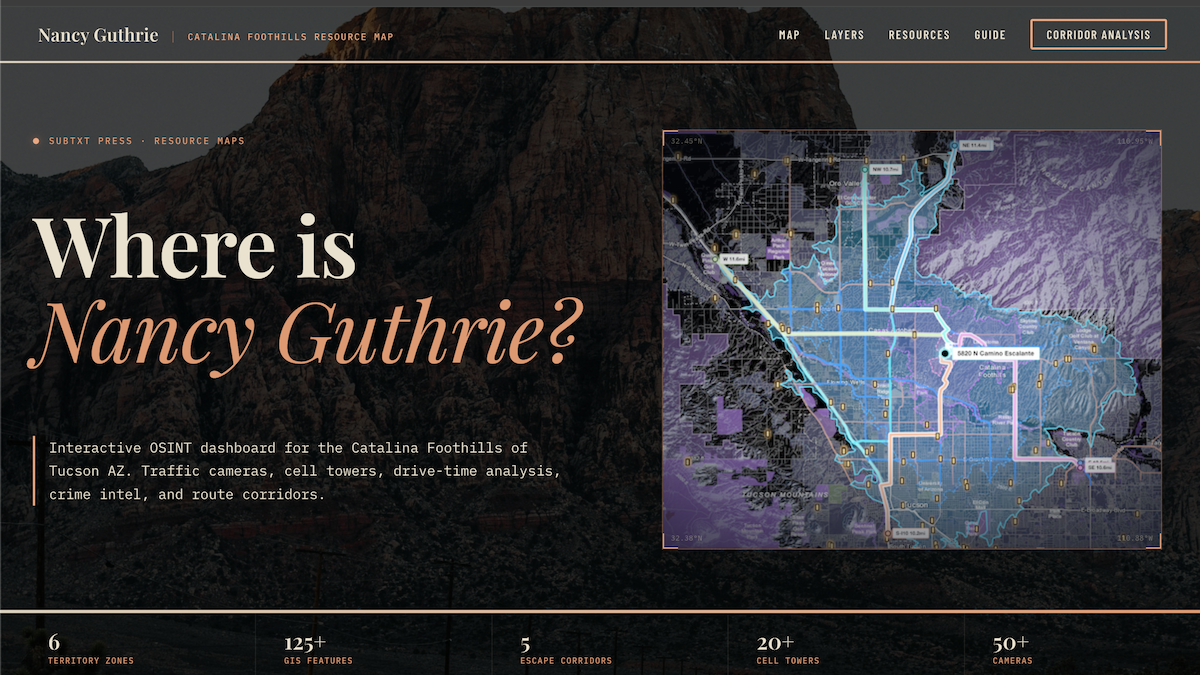
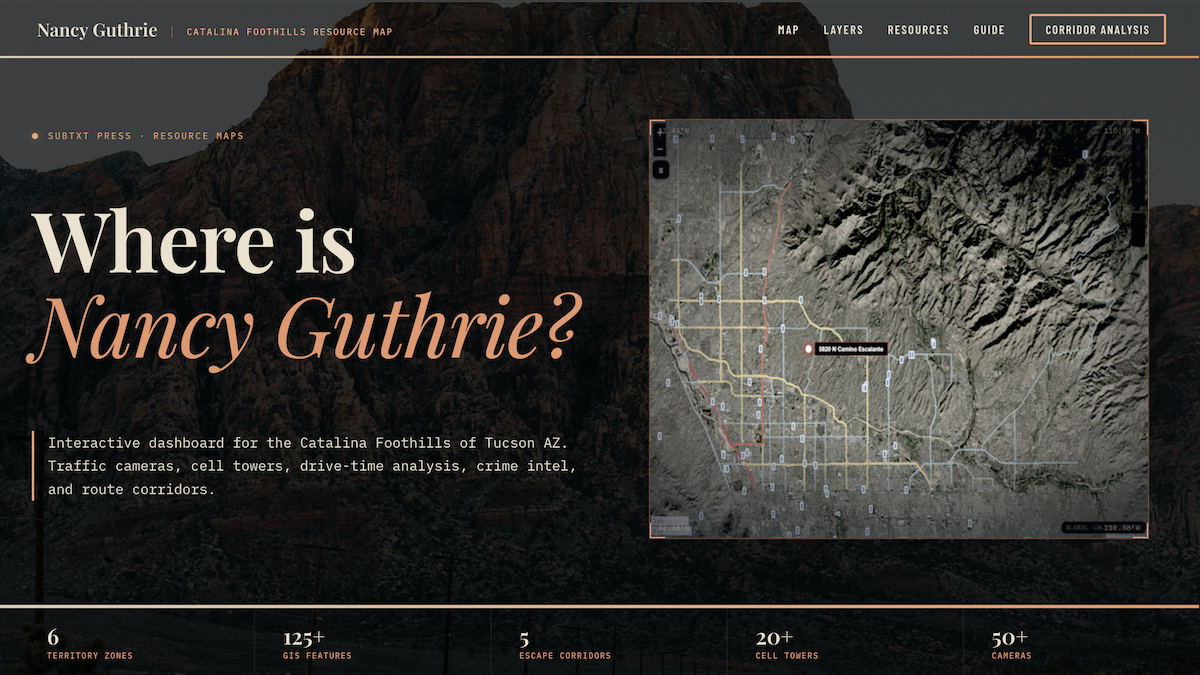
preview img fix

diff --git a/case/nancy-guthrie/case-map.html b/case/nancy-guthrie/case-map.html
@@ -1766,21 +1766,55 @@ async function loadPointData() {
   setStatus('towers','loading');
   setStatus('trailheads','loading');
 
-  const bbox = C.bboxWide;
-  const q = `[out:json][timeout:45];(
-    node["historic"~"^mine"](${bbox});
-    node["man_made"~"^(mineshaft|adit)$"](${bbox});
-    way["historic"~"^mine"](${bbox});
-    node["man_made"="mast"]["tower:type"="communication"](${bbox});
-    node["man_made"="tower"]["tower:type"="communication"](${bbox});
-    node["man_made"="communications_tower"](${bbox});
-    way["man_made"="mast"]["tower:type"="communication"](${bbox});
-    node["highway"="trailhead"](${bbox});
-    node["information"="trailhead"](${bbox});
-  );out center;`;
+  const cacheKey = 'nancy_pointdata_cache';
+  const cacheTime = 86400000; // 24 hours in ms
+  const cached = localStorage.getItem(cacheKey);
+
+  let data;
+
+  // Try to use cached data if available
+  if (cached) {
+    const cache = JSON.parse(cached);
+    if (Date.now() - cache.timestamp < cacheTime) {
+      data = cache.data;
+      console.log('Using cached point data');
+    } else {
+      localStorage.removeItem(cacheKey);
+    }
+  }
+
+  // If no valid cache, fetch from Overpass API
+  if (!data) {
+    const bbox = C.bboxWide;
+    const q = `[out:json][timeout:45];(
+      node["historic"~"^mine"](${bbox});
+      node["man_made"~"^(mineshaft|adit)$"](${bbox});
+      way["historic"~"^mine"](${bbox});
+      node["man_made"="mast"]["tower:type"="communication"](${bbox});
+      node["man_made"="tower"]["tower:type"="communication"](${bbox});
+      node["man_made"="communications_tower"](${bbox});
+      way["man_made"="mast"]["tower:type"="communication"](${bbox});
+      node["highway"="trailhead"](${bbox});
+      node["information"="trailhead"](${bbox});
+    );out center;`;
+
+    try {
+      data = await overpass(q);
+      // Cache the result
+      localStorage.setItem(cacheKey, JSON.stringify({
+        timestamp: Date.now(),
+        data: data
+      }));
+    } catch(e) {
+      console.error('Point data error:',e);
+      setStatus('mines','error',e.message);
+      setStatus('towers','error','');
+      setStatus('trailheads','error','');
+      return;
+    }
+  }
 
   try {
-    const data = await overpass(q);
     let mc=0, tc=0, thc=0;
 
     data.elements.forEach(el => {
@@ -1820,7 +1854,7 @@ async function loadPointData() {
     setStatus('towers','loaded',`(${tc})`);
     setStatus('trailheads','loaded',`(${thc})`);
   } catch(e) {
-    console.error('Point data error:',e);
+    console.error('Point data processing error:',e);
     setStatus('mines','error',e.message);
     setStatus('towers','error','');
     setStatus('trailheads','error','');
@@ -2980,6 +3014,7 @@ document.querySelectorAll('[data-layer]').forEach(cb => {
     const layer = ly[cb.dataset.layer];
     if (!layer) return;
     if (cb.checked) {
+      if (cb.dataset.layer === 'escapeRoute' && !escapeRouteLoaded) buildEscapeRoute();
       map.addLayer(layer);
       if (cb.dataset.layer === 'aircraft' && !aircraftLoaded) loadAircraft();
       if (cb.dataset.layer === 'stormDrains' && !stormDrainsLoaded) loadStormDrains();
@@ -3145,7 +3180,10 @@ map.on('click', e => {
 // =============================================================
 // ESCAPE ROUTE ANALYSIS: WB I-10 Corridor (2-3 AM scenario)
 // =============================================================
-(function buildEscapeRoute() {
+var escapeRouteLoaded = false;
+function buildEscapeRoute() {
+  if (escapeRouteLoaded) return;
+  escapeRouteLoaded = true;
   const ER = ly.escapeRoute;
 
   // --- Helper: geographically-anchored tag (circleMarker + permanent tooltip) ---
@@ -3282,8 +3320,7 @@ map.on('click', e => {
 
   waypoint([31.3400,-110.9400], 'Nogales / MX · ⚠ monitored', '#ef4444',
     '<b>Nogales / Mexico Border</b><br>~60 mi / ~1 hr from I-10/I-19 junction<br>⚠ Border Patrol checkpoints on I-19<br>⚠ Heavily monitored corridor<br>Higher interception risk vs WB I-10').addTo(ER);
-
-})();
+}
 
 // =============================================================
 // TOOL: DISTANCE RINGS
@@ -4458,8 +4495,7 @@ loadCameras();
 loadWater();
 loadWatersheds();
 
-// Auto-run drive-time analysis after cameras + geocode have time to load
-setTimeout(() => runDriveTime(), 4000);
+// Drive-time analysis runs on demand only (button click)
 
 // Mobile: auto-collapse sidebar on small screens, close on map tap
 if (window.innerWidth <= 768) {

diff --git a/case/nancy-guthrie/timeline.html b/case/nancy-guthrie/timeline.html
@@ -587,7 +587,7 @@
   <!-- ── STEP 0: Intro ── -->
   <!-- ── STEP 0: Nancy Guthrie Missing ── -->
   <div class="step" data-step="0" data-border="var(--c-accent)">
-    <div class="step-time">January 31 - February 1, 2026</div>
+    <div class="step-time">February 1, 2026</div>
     <div class="step-title">Nancy Guthrie Missing</div>
     <p>Nancy Guthrie, 84, was reported missing from her home in Tucson, Arizona on February 1, 2026. Authorities believe she was abducted in the early morning hours of February 1 after being last seen the previous evening.</p>
     <div class="callout">
@@ -1220,8 +1220,16 @@ var map = L.map('map', {
 
 var usingSatellite = false;
 function toggleBasemap() {
-  if (usingSatellite) { map.removeLayer(satTiles); map.addLayer(darkTiles); }
-  else { map.removeLayer(darkTiles); map.addLayer(satTiles); }
+  var btn = document.getElementById('basemap-toggle');
+  if (usingSatellite) {
+    map.removeLayer(satTiles);
+    map.addLayer(darkTiles);
+    btn.textContent = 'Satellite';
+  } else {
+    map.removeLayer(darkTiles);
+    map.addLayer(satTiles);
+    btn.textContent = 'Dark';
+  }
   usingSatellite = !usingSatellite;
 }
 

diff --git a/case/nancy-guthrie/img/preview-img.html b/case/nancy-guthrie/img/preview-img.html
@@ -277,8 +277,8 @@
     /* ─── Box frame (map screenshot) ─── */
     .box-frame {
       position: absolute;
-      top: 50%;
-      left: 52%;
+      top: 49%;
+      left: 50%;
       transform: translate(-50%, -50%);
       width: 500px;
       height: 420px;
@@ -391,7 +391,7 @@
       </h1>
 
       <p class="desc">
-        Interactive OSINT dashboard for the Catalina Foothills of Tucson AZ. Traffic cameras, cell towers, drive-time analysis, crime intel, and route corridors.
+        Interactive dashboard for the Catalina Foothills of Tucson AZ. Traffic cameras, cell towers, drive-time analysis, crime intel, and route corridors.
       </p>
     </div>
 
